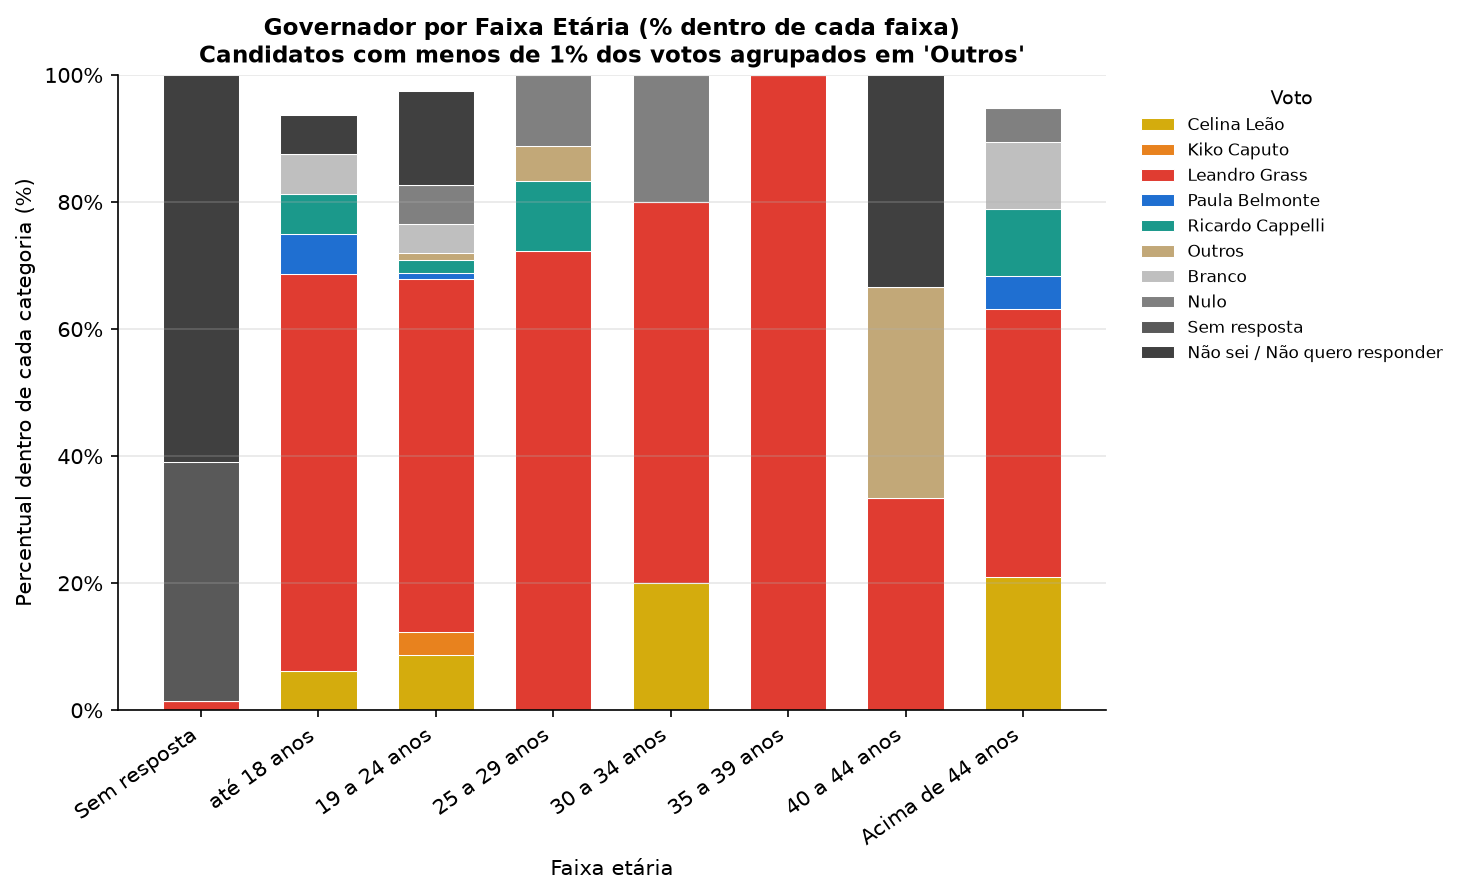
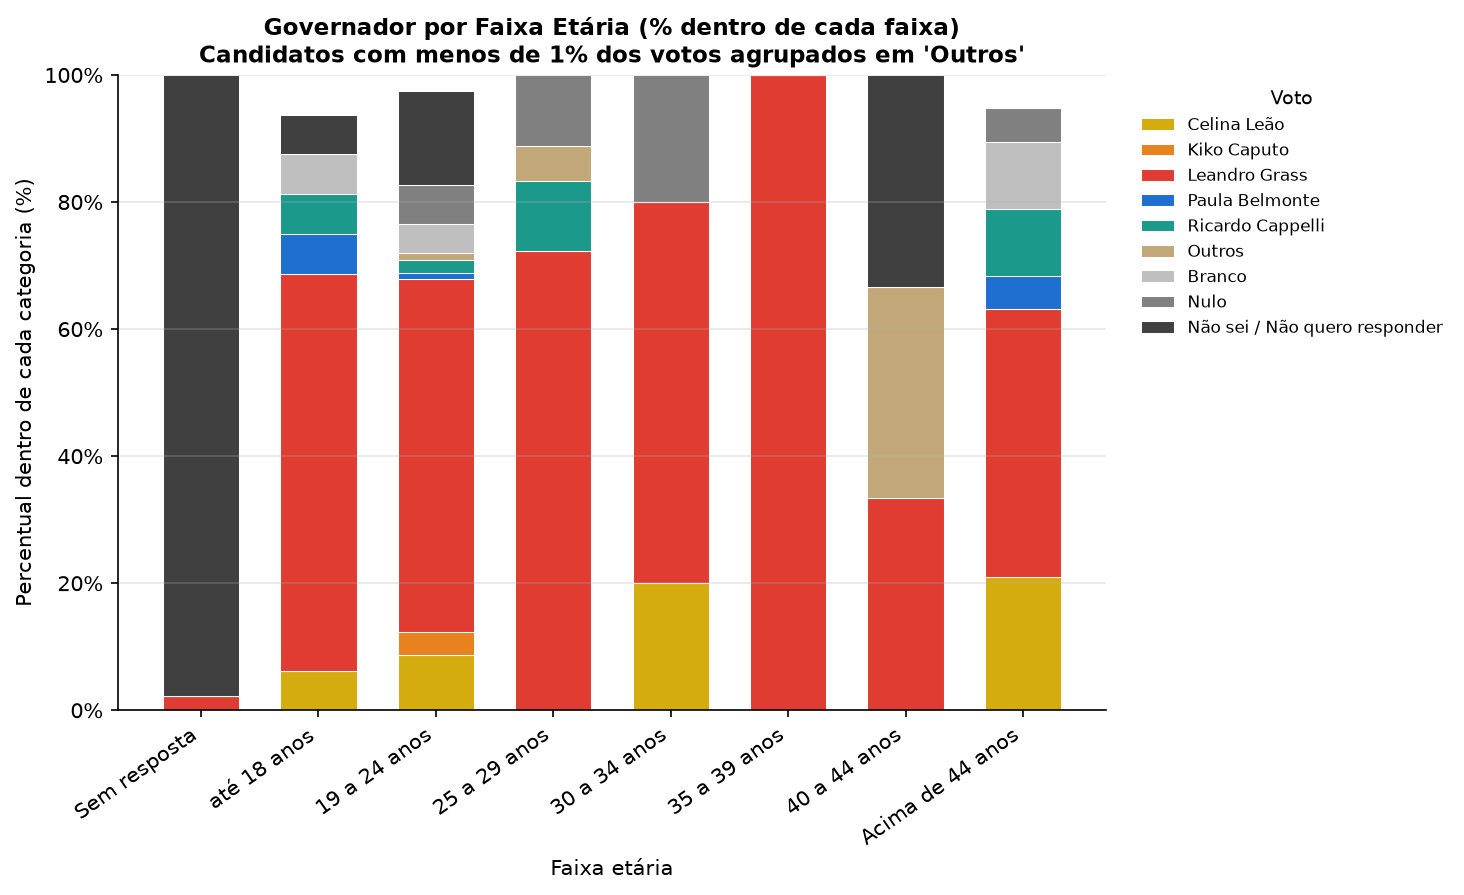
Trata "Sem resposta" como nao-resposta (missing) na pergunta de voto, nao como categoria valida
"Sem resposta" era, na pratica, o codigo usado em campo para recusa (os
9 respondentes antes em branco foram recodificados exatamente para esse
rotulo numa revisao da planilha) - diferente de "Nao sei/nao quero
responder", que e uma resposta engajada. Agora e excluida do calculo de
p_hat/IC em ambos os scripts (SAS e Python), restaurando a distincao
entre margem de erro nominal (n=400) e efetiva (n=347, 13,25% de
nao-resposta, com indicio de nao-resposta diferencial por sexo).

Corrige tambem um bug no gerar_graficos.py: ele salvava os PNGs direto
em imagens/ em vez de imagens/imagens_python/.

Validado linha a linha contra o output_sas_v5.pdf (novo output do
usuario com o script atualizado) - todos os numeros batem exatamente
(contagens, p_hat, erro-padrao, IC, qui-quadrado e GL).

Changed region(s): [[0.0922, 0.5128, 0.1844, 0.7844], [0.7684, 0.362, 0.9836, 0.4223]]

diff --git a/script_python/gerar_graficos.py b/script_python/gerar_graficos.py
@@ -8,8 +8,12 @@ de Cochran com divisor n-1 e IC via t-Student) e salva os PNGs em imagens/.
 
 Paleta de cores validada com o script validate_palette.js da skill dataviz
 (CVD-safe para as cores "de candidato"; os tons de cinza para Branco/Nulo/
-Sem resposta/Nao sei sao propositalmente de baixo croma - a identificacao
-deles nao depende de cor, ja que a legenda sempre traz o rotulo em texto).
+Nao sei sao propositalmente de baixo croma - a identificacao deles nao
+depende de cor, ja que a legenda sempre traz o rotulo em texto).
+
+"Sem resposta" e tratada como nao-resposta (recusa), nao como categoria
+de voto - ver comentario na limpeza dos dados, logo apos a leitura do
+Excel.
 """
 import re
 from pathlib import Path
@@ -22,7 +26,7 @@ from scipy import stats
 
 BASE_DIR = Path(__file__).resolve().parent.parent
 DATA_PATH = BASE_DIR / "intenções_de_voto_pavilhões.xlsx"
-OUT_DIR = BASE_DIR / "imagens"
+OUT_DIR = BASE_DIR / "imagens" / "imagens_python"
 OUT_DIR.mkdir(exist_ok=True)
 
 N_DF = 2_562_037  # TRE-DF, julho/2026 - usado so para registro, fpc desprezivel
@@ -65,6 +69,15 @@ def limpar_nome(nome):
 df["presidente"] = df["presidente"].apply(limpar_nome)
 df["governador"] = df["governador"].apply(limpar_nome)
 
+# "Sem resposta" e o codigo usado em campo para recusa na pergunta de voto
+# (os 9 respondentes antes em branco foram recodificados exatamente para
+# "Sem resposta" numa revisao posterior da planilha) - trata-se como
+# nao-resposta (NaN), nao como categoria de voto valida. Diferente de "Nao
+# sei/nao quero responder", que e uma resposta engajada e continua valida.
+# NAO se aplica a faixa_etaria/faixa_renda, onde "Sem resposta" e legitima.
+df["presidente"] = df["presidente"].replace("Sem resposta", np.nan)
+df["governador"] = df["governador"].replace("Sem resposta", np.nan)
+
 n_nominal = len(df)
 
 TURNO_ORDER = ["Manhã", "Tarde", "Noite"]
@@ -79,11 +92,13 @@ df["faixa_etaria"] = pd.Categorical(df["faixa_etaria"], categories=ETARIA_ORDER,
 
 # ---------------------------------------------------------------------------
 # 3. GRUPO "OUTROS" (<1% dos votos validos) - replica Secao 6.5 do .sas
-#    Exatamente como no SAS: Branco/Nulo/Sem resposta/Nao sei NUNCA entram em
-#    "Outros", mesmo que (hipoteticamente) ficassem abaixo de 1%.
+#    Exatamente como no SAS: Branco/Nulo/Nao sei NUNCA entram em "Outros",
+#    mesmo que (hipoteticamente) ficassem abaixo de 1%. "Sem resposta" nao
+#    entra nessa lista porque agora e nao-resposta (NaN), nunca aparece
+#    como categoria.
 # ---------------------------------------------------------------------------
-NAO_VOTO_PRES = {"Branco", "Nulo", "Não sei/não quero responder", "Sem resposta"}
-NAO_VOTO_GOV = {"Branco", "Nulo", "Não sei / Não quero responder", "Sem resposta"}
+NAO_VOTO_PRES = {"Branco", "Nulo", "Não sei/não quero responder"}
+NAO_VOTO_GOV = {"Branco", "Nulo", "Não sei / Não quero responder"}
 
 
 def agrupar_outros(serie: pd.Series, excluidos: set) -> pd.Series:
@@ -148,7 +163,6 @@ PALETA_PRES = {
     "Outros": "#C2A878",
     "Branco": "#BFBFBF",
     "Nulo": "#808080",
-    "Sem resposta": "#595959",
     "Não sei/não quero responder": "#404040",
 }
 PALETA_GOV = {
@@ -160,7 +174,6 @@ PALETA_GOV = {
     "Outros": "#C2A878",
     "Branco": "#BFBFBF",
     "Nulo": "#808080",
-    "Sem resposta": "#595959",
     "Não sei / Não quero responder": "#404040",
 }
 ORDEM_PRES = list(PALETA_PRES.keys())
